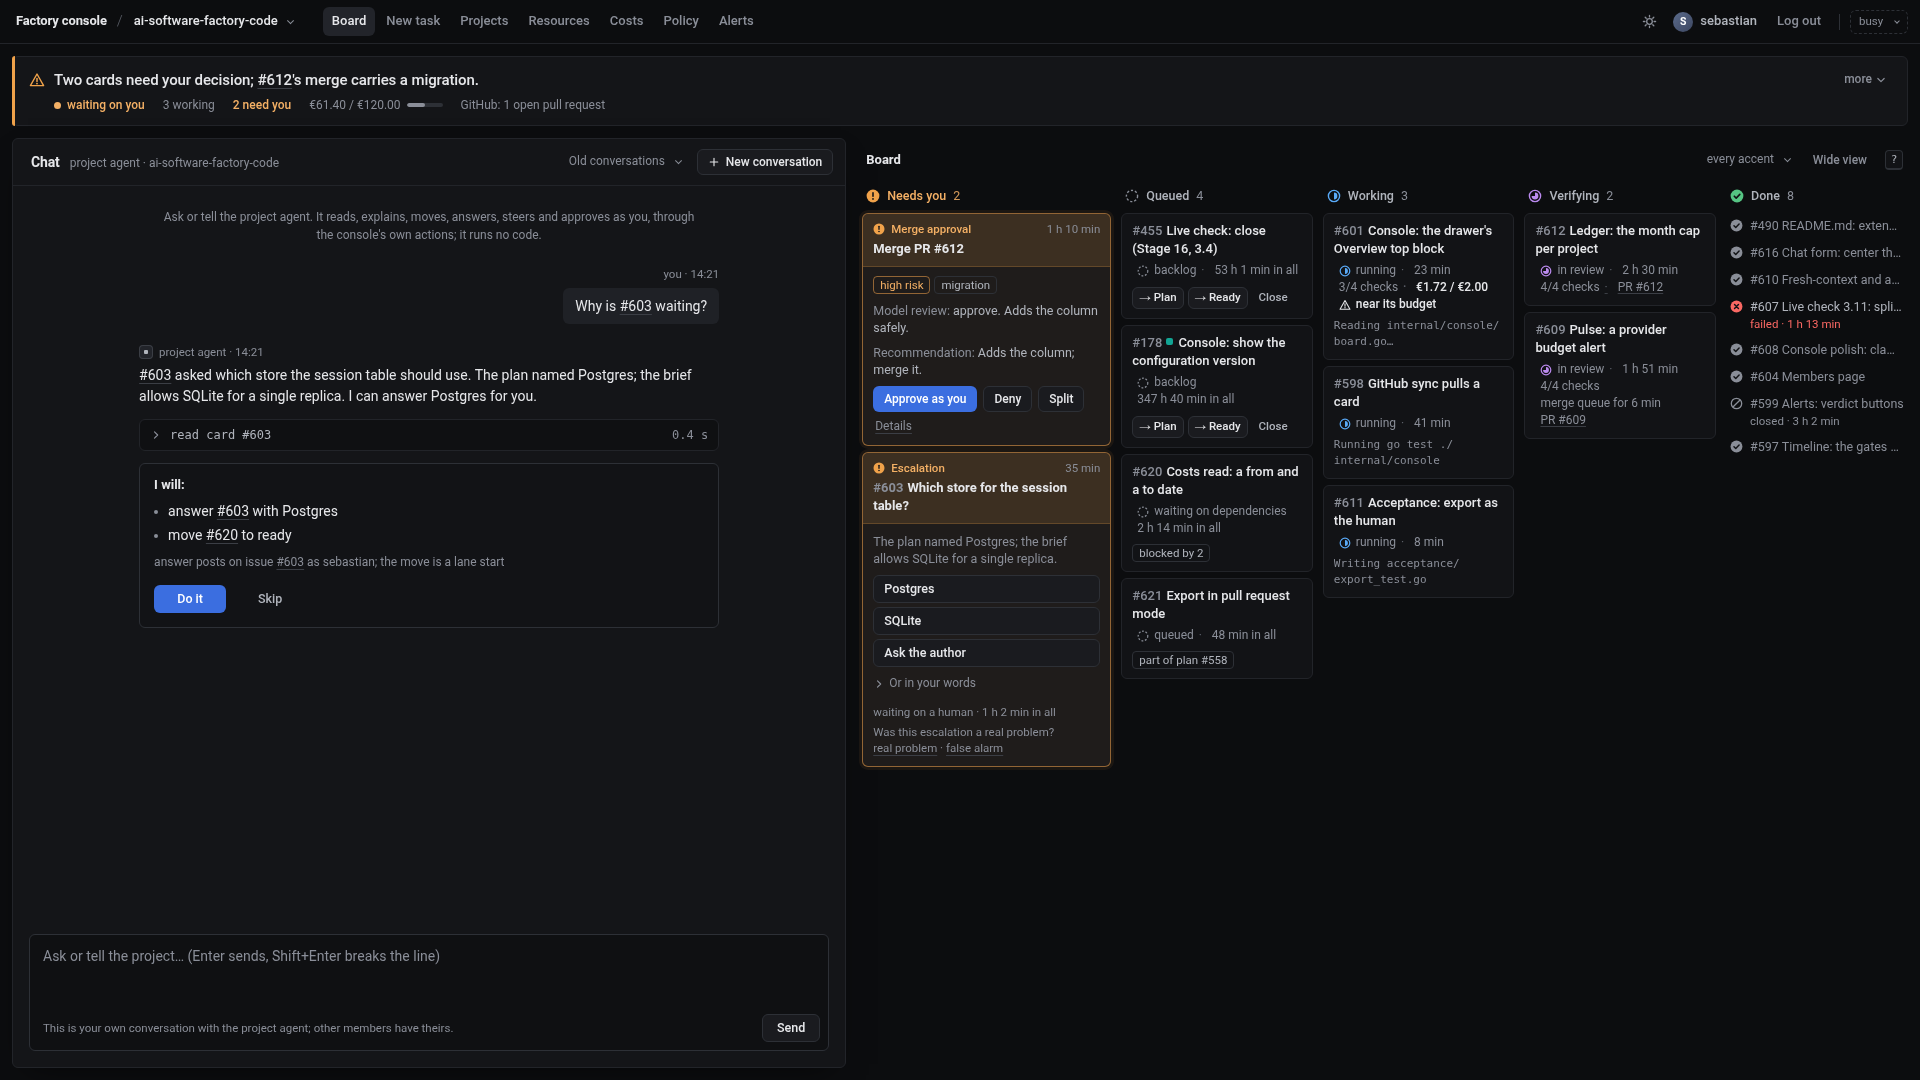
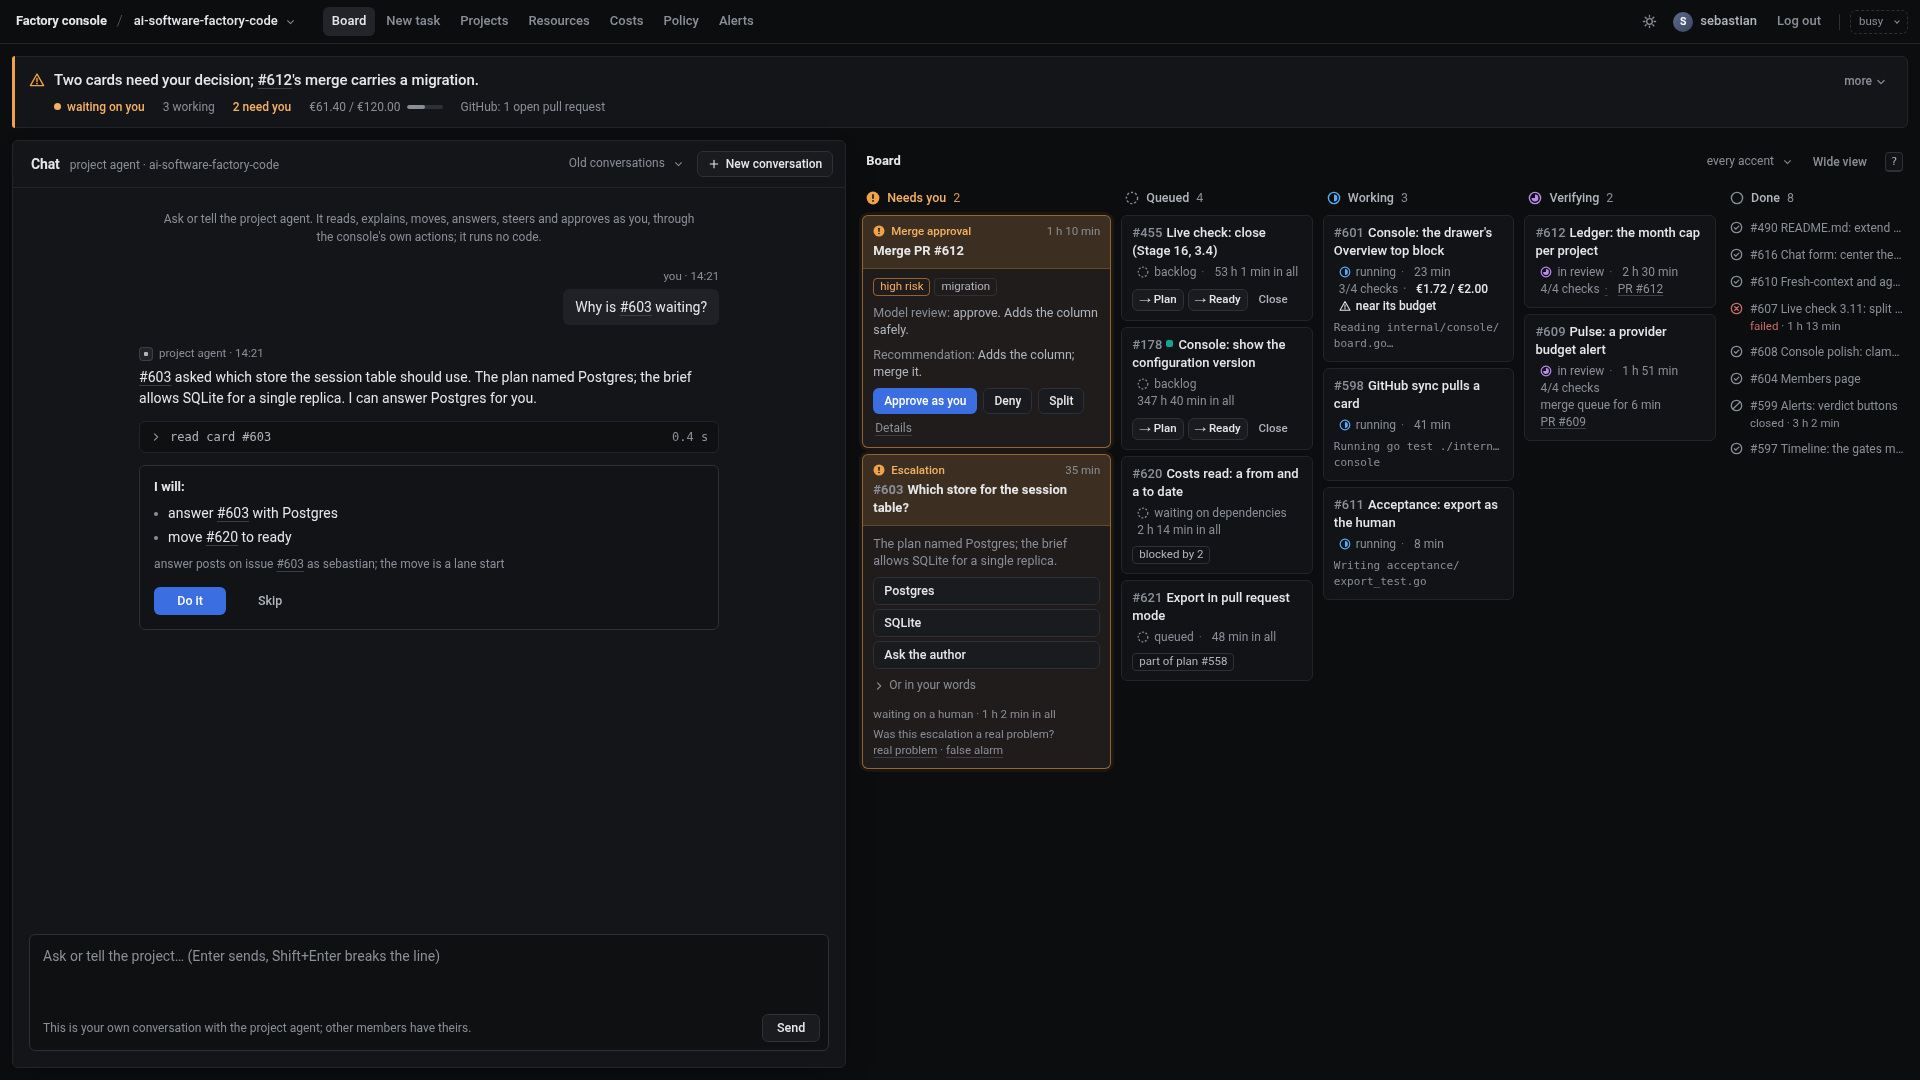
prototype 01 Linear calm: fix loop 2 (Done whispers, light contrast tokens, activity lines keep the file name, the pulse's more link), final

diff --git a/design/prototypes/01-linear-calm/index.html b/design/prototypes/01-linear-calm/index.html
@@ -52,6 +52,7 @@ html[data-theme="dark"] {
   --st-review: oklch(0.72 0.15 305);
   --st-done: oklch(0.74 0.14 155);
   --st-failed: oklch(0.70 0.18 25);
+  --st-failed-muted: oklch(0.64 0.12 25);
   --st-closed: #8a8e98;
   --st-queued: #8a8e98;
   --add: oklch(0.76 0.14 155);
@@ -75,8 +76,8 @@ html[data-theme="light"] {
   --line-2: #d6d9de;
   --line-3: #bfc3ca;
   --text: #17181b;
-  --text-2: #3f434a;
-  --text-muted: #565a63;
+  --text-2: #34373d;
+  --text-muted: #4b4f58;
   --text-faint: #a8acb3;
   --accent: #2a5fd6;
   --accent-bg: #2f64dc;
@@ -93,7 +94,8 @@ html[data-theme="light"] {
   --st-review: oklch(0.52 0.18 305);
   --st-done: oklch(0.52 0.13 155);
   --st-failed: oklch(0.53 0.19 25);
-  --st-closed: #565a63;
+  --st-failed-muted: oklch(0.50 0.13 25);
+  --st-closed: #4b4f58;
   --st-queued: #8b8f98;
   --add: oklch(0.50 0.13 155);
   --del: oklch(0.52 0.19 25);
@@ -231,6 +233,7 @@ body { display: flex; flex-direction: column; height: 100vh; height: 100dvh; ove
   background: var(--need); border-radius: var(--r) 0 0 var(--r);
 }
 .pulse-line { display: flex; align-items: flex-start; gap: 9px; }
+.pulse-line > .pulse-sentence, .pulse-line > .more { align-self: baseline; }
 .pulse-line > .warn { color: var(--need); width: 16px; height: 16px; margin-top: 3px; }
 .pulse-sentence { font-size: 15px; line-height: 22px; font-weight: 500; letter-spacing: -0.008em; color: var(--text); }
 .recompute { display: inline-flex; gap: 3px; margin-left: 8px; vertical-align: 2px; }
@@ -338,7 +341,7 @@ a.fig.fig-need:hover { text-decoration: underline; text-underline-offset: 3px; }
 #chat-input:focus-visible { outline: none; }
 #chat-input::placeholder { color: var(--text-muted); }
 .composer-bar { display: flex; align-items: center; gap: 12px; padding: 4px 8px 8px 13px; }
-.own { flex: 1; min-width: 0; font-size: 11.5px; line-height: 16px; color: var(--text-muted); }
+.own { flex: 1; min-width: 0; font-size: 12px; line-height: 16px; color: var(--text-muted); }
 .composer-box:has(#chat-input:not(:placeholder-shown)) .send { background: var(--accent-bg); border-color: transparent; color: var(--on-accent); }
 .send { height: 28px; padding: 0 14px; font-size: 12.5px; }
 .queue { margin-top: 8px; display: grid; gap: 4px; }
@@ -394,6 +397,8 @@ a.fig.fig-need:hover { text-decoration: underline; text-underline-offset: 3px; }
 a.it.pr { position: relative; z-index: 1; color: var(--text-muted); text-decoration: underline; text-decoration-color: var(--line-3); text-underline-offset: 2px; }
 a.it.pr:hover { color: var(--text); }
 .c-act { margin-top: 5px; font: 11px/16px var(--mono); color: var(--text-muted); display: -webkit-box; -webkit-line-clamp: 2; -webkit-box-orient: vertical; overflow: hidden; overflow-wrap: anywhere; }
+.c-act.path { display: flex; flex-wrap: wrap; }
+.c-act.path span { min-width: 0; max-width: 100%; white-space: pre; overflow: hidden; text-overflow: ellipsis; }
 .chips { position: relative; display: flex; flex-wrap: wrap; gap: 4px; margin-top: 7px; }
 .chip { display: inline-flex; align-items: center; height: 18px; padding: 0 6px; border: 1px solid var(--line-2); border-radius: 4px; font-size: 11.5px; color: var(--text-2); white-space: nowrap; }
 .chip-risk { border-color: var(--need-line); color: var(--need-text); }
@@ -407,18 +412,18 @@ a.it.pr:hover { color: var(--text); }
 .done-list { display: grid; grid-template-columns: minmax(0, 1fr); gap: 1px; margin: 0 -2px; }
 .d-open {
   display: flex; align-items: flex-start; gap: 7px; width: 100%; padding: 4px 6px; border: 0; border-radius: var(--r);
-  background: none; text-align: left; color: var(--text-muted); font-size: 12.5px; line-height: 18px; transition: background-color .12s, color .12s;
+  background: none; text-align: left; color: var(--text-muted); font-size: 12px; line-height: 18px; transition: background-color .12s, color .12s;
 }
 .d-open:hover { background: var(--bg-hover); color: var(--text-2); }
 .d-open .si { margin-top: 2px; width: 13px; height: 13px; }
-.done-row.st-done .si { color: var(--text-muted); }
-.done-row.st-closed .si { color: var(--text-muted); }
+.done-row .si { color: var(--text-muted); }
+.done-row.st-failed .si { color: var(--st-failed-muted); }
 .d-text { flex: 1; min-width: 0; }
 .d-line { display: block; white-space: nowrap; overflow: hidden; text-overflow: ellipsis; }
 .d-line .ref { color: inherit; font-weight: 400; margin-right: 3px; }
 .d-state { display: block; font-size: 11.5px; line-height: 16px; }
-.done-row.st-failed .d-line { color: var(--text-2); }
-.done-row.st-failed .d-state { color: var(--st-failed); }
+.d-state b { font-weight: 400; }
+.done-row.st-failed .d-state b { color: var(--st-failed-muted); }
 .d-time { display: none; flex: none; font-size: 11.5px; color: var(--text-muted); }
 @container (min-width: 200px) { .d-time { display: inline; } }
 @container (max-width: 169px) { .d-line { white-space: normal; display: -webkit-box; -webkit-line-clamp: 2; -webkit-box-orient: vertical; } }
@@ -723,6 +728,12 @@ footer { flex: none; }
     closed: ring + '<path d="m3.2 10.8 7.6-7.6" stroke="currentColor" stroke-width="1.4"/>',
     idle: ring,
   };
+  // done rows whisper: outline glyphs only
+  const ROW = {
+    done: ring + '<path d="m4.6 7.1 1.7 1.7 3.2-3.3" fill="none" stroke="currentColor" stroke-width="1.4" stroke-linecap="round" stroke-linejoin="round"/>',
+    failed: ring + '<path d="m5.1 5.1 3.8 3.8m0-3.8-3.8 3.8" stroke="currentColor" stroke-width="1.4" stroke-linecap="round"/>',
+    closed: SI.closed,
+  };
   const si = (k) => `<svg class="si si-${k}" viewBox="0 0 14 14" aria-hidden="true">${SI[k] || SI.queued}</svg>`;
 
   // the issue refs in prose open their card when the card is on the board
@@ -917,16 +928,23 @@ footer { flex: none; }
       ${I.grip}
       <button type="button" class="c-open" data-open title="${esc(c.title)}"><span class="c-title"><span class="ref">#${c.issue}</span>${c.accent ? `<span class="accent-dot" style="background:${ACCENTS[c.accent] || 'var(--text-muted)'}" title="accent ${esc(c.accent)}"></span>` : ''}${esc(c.title)}</span></button>
       ${stateRow(c)}
-      ${act ? `<p class="c-act" title="${esc(c.activity)}">${esc(c.activity).replace(/\//g, '/<wbr>')}</p>` : ''}
+      ${act ? actLine(c.activity) : ''}
       ${chipsHTML(c)}
       ${conf ? confirmLine(conf) : cardActions(c)}
     </article>`;
   }
+  // a path splits before its file name: head and file share a line when they fit, else the file takes the second line
+  function actLine(a) {
+    const m = /^(.*\/)([^/]+)$/.exec(a);
+    return m
+      ? `<p class="c-act path" title="${esc(a)}"><span>${esc(m[1])}</span><span>${esc(m[2])}</span></p>`
+      : `<p class="c-act" title="${esc(a)}">${esc(a)}</p>`;
+  }
   function doneHTML(c) {
     const k = stKey(c.status), loud = k !== 'done';
     return `<li class="done-row st-${k}" data-card="${c.issue}">
-      <button type="button" class="d-open" data-open title="${esc(`#${c.issue} ${c.title} · ${c.status} · ${c.elapsed}`)}">${si(k)}
-        <span class="d-text"><span class="d-line"><span class="ref">#${c.issue}</span>${esc(c.title)}</span>${loud ? `<span class="d-state">${esc(c.status)} · ${esc(c.elapsed.replace(/ in all$/, ''))}</span>` : ''}</span>
+      <button type="button" class="d-open" data-open title="${esc(`#${c.issue} ${c.title} · ${c.status} · ${c.elapsed}`)}"><svg class="si" viewBox="0 0 14 14" aria-hidden="true">${ROW[k]}</svg>
+        <span class="d-text"><span class="d-line"><span class="ref">#${c.issue}</span>${esc(c.title)}</span>${loud ? `<span class="d-state"><b>${esc(c.status)}</b> · ${esc(c.elapsed.replace(/ in all$/, ''))}</span>` : ''}</span>
         ${loud ? '' : `<span class="d-time">${esc(c.elapsed.replace(/ in all$/, ''))}</span>`}
       </button></li>`;
   }
@@ -1052,7 +1070,7 @@ footer { flex: none; }
         ${col('queued', 'Queued', 'queued', q.length, q.map((c) => cardHTML(c, 'queued')).join(''))}
         ${col('working', 'Working', 'running', w.length, w.map((c) => cardHTML(c, 'working')).join(''))}
         ${col('verifying', 'Verifying', 'review', v.length, v.map((c) => cardHTML(c, 'verifying')).join(''))}
-        ${col('done', 'Done', 'done', doneCount, d.length ? `<ul class="done-list">${d.slice(0, 12).map(doneHTML).join('')}</ul>${doneCount > Math.min(d.length, 12) ? `<a href="#" class="done-more">and ${doneCount - Math.min(d.length, 12)} earlier</a>` : ''}` : '',
+        ${col('done', 'Done', 'idle', doneCount, d.length ? `<ul class="done-list">${d.slice(0, 12).map(doneHTML).join('')}</ul>${doneCount > Math.min(d.length, 12) ? `<a href="#" class="done-more">and ${doneCount - Math.min(d.length, 12)} earlier</a>` : ''}` : '',
           `<button type="button" class="icon-btn sm done-toggle" data-act="done-toggle" aria-expanded="false" aria-controls="col-done-body" aria-label="Done">${I.down}</button>`)}
       </div>`;
     markOpen();

diff --git a/design/themes/01-linear-calm/DESIGN.md b/design/themes/01-linear-calm/DESIGN.md
@@ -16,8 +16,8 @@ The control direction: a Linear or Height product screen, monochrome cool greys,
 | --bg-hover / --bg-active | #1a1b1f / #202227 | #f0f1f3 / #e8eaed | hover, the active nav item, pressed |
 | --line, --line-2, --line-3 | #222429, #2d3036, #3a3d44 | #e4e6e9, #d6d9de, #c3c7ce | hairlines, control borders, hover borders |
 | --text | #e6e7ea | #17181b | titles, the pulse sentence, chat text |
-| --text-2 | #b0b4bc | #3f434a | secondary text, column titles |
-| --text-muted | #8a8e98 | #565a63 | meta, done rows and their icons, the status figures (at least 5.5:1 on its ground) |
+| --text-2 | #b0b4bc | #34373d | secondary text, column titles |
+| --text-muted | #8a8e98 | #4b4f58 | meta, done rows and their icons, the status figures, the composer's helper line (light: 8.2:1 on the card and the panel, 7.7:1 on the page, 7.8:1 on the Needs you fill) |
 | --accent | #7ea6f8 | #2a5fd6 | links on hover, focus ring |
 | --accent-bg | #3b6ee0 | #2f64dc | the primary button (Do it, Approve as you, Send with text), white text 4.6:1 |
 | --need | #f0a24a | #df8d2c | the Needs you treatment: outline, the pulse rule, the waiting dot |
@@ -26,8 +26,9 @@ The control direction: a Linear or Height product screen, monochrome cool greys,
 | --st-running | oklch(0.72 0.14 250) | oklch(0.52 0.15 250) | the running icon |
 | --st-waiting | = --need | = --need | waiting on a human |
 | --st-review | oklch(0.72 0.15 305) | oklch(0.52 0.18 305) | in review |
-| --st-done | oklch(0.74 0.14 155) | oklch(0.52 0.13 155) | the Done column icon only; done rows stay grey |
-| --st-failed | oklch(0.70 0.18 25) | oklch(0.53 0.19 25) | failed icon and word, spend over the cap |
+| --st-done | oklch(0.74 0.14 155) | oklch(0.52 0.13 155) | the applied check and a passed gate; the Done column and its rows stay grey |
+| --st-failed | oklch(0.70 0.18 25) | oklch(0.53 0.19 25) | a failed card face, spend over the cap |
+| --st-failed-muted | oklch(0.64 0.12 25) | oklch(0.50 0.13 25) | the failed done row's mark and word only |
 | --st-closed, --st-queued | #8a8e98 | #626670, #8b8f98 | closed, backlog, queued |
 
 The state hues sit on Linear-style status icons (dashed circle queued, half pie running, three-quarter pie in review, filled check done, filled cross failed, slashed circle closed), never on fills, so the shape and the word carry the state and the hue only confirms it. The state word stays grey, except waiting on a human (warm) and failed (red).
@@ -37,7 +38,7 @@ The state hues sit on Linear-style status icons (dashed circle queued, half pie 
 - One grotesk: `Inter, -apple-system, BlinkMacSystemFont, "Segoe UI", Roboto, "Helvetica Neue", Arial, system-ui`. Mono: `ui-monospace, "SF Mono", "JetBrains Mono", Menlo, Consolas, "Roboto Mono"`.
 - Scale: 11.5 (kickers, chips), 12 (meta, state rows, status figures, buttons), 13 (body, card titles, nav), 14 (chat messages, the composer), 15 (the pulse sentence, weight 500), 17 (the drawer title, weight 600).
 - Weights 400, 500, 600 only. Tabular numerals everywhere except chat prose.
-- Activity line: mono 11 px, muted, up to two lines (breaking after a slash) before the ellipsis.
+- Activity line: mono 11 px, muted. A path splits before its file name: the head and the file share one line when they fit, else the file name takes the second line and the head ellipsises, so the file always shows. Text without a path wraps to two lines.
 
 ## Layout at 1440 and 1920
 
@@ -51,7 +52,7 @@ The state hues sit on Linear-style status icons (dashed circle queued, half pie 
 
 ## The pulse
 
-A raised band with a hairline. The sentence first at 15 px/500 in --text, "more" at the right end opening the bullets. Under it the status figures in one 12 px tabular row: state dot and word, n working (`workingCount`), n waiting on the provider (when any), n need you (warm, links to the column), spend / cap with a 36 px meter, GitHub. Prominent: a 3 px --need rule on the left edge and the warm warning sign. Subdued: no rule, no sign. Spend over the cap turns the figure and its meter red. Three dots after the sentence while it recomputes.
+A raised band with a hairline. The sentence first at 15 px/500 in --text, "more" at the right end on the sentence's first baseline, opening the bullets. Under it the status figures in one 12 px tabular row: state dot and word, n working (`workingCount`), n waiting on the provider (when any), n need you (warm, links to the column), spend / cap with a 36 px meter, GitHub. Prominent: a 3 px --need rule on the left edge and the warm warning sign. Subdued: no rule, no sign. Spend over the cap turns the figure and its meter red. Three dots after the sentence while it recomputes.
 
 ## The chat
 
@@ -62,7 +63,7 @@ The main region and the brightest surface: raised panel, hairline, a soft drop s
 - Column header: status icon, sentence-case title 12.5/500, count muted. Needs you title in --need-text.
 - Card: --bg-card, hairline, padding 8/10. Title 13/500 clamped to two lines with the ref in muted tabular. State row 12 px: icon and word, elapsed, n/n checks, gate and age, spend from 80 percent with "⚠ near its budget" in --text, fine states, PR link. Activity line in mono only on working and waiting cards. Chips 11.5 px hairline. Actions: 22 px buttons, Close quiet.
 - Stale card: a dashed --line-3 border.
-- Done, failed, closed: no box, a row with the state icon, ref and title; one line where the column is 170 px or wider, two below that. Failed and closed add an 11.5 px line with the state word and elapsed. The elapsed of a done row appears when the column is 200 px or wider. At most 12 rows, then one quiet link "and n earlier"; the column never needs its own long scroller.
+- Done, failed, closed: no box, 12 px muted text, outline glyphs in --text-muted (check, slashed ring; the failed row a cross and its word in --st-failed-muted), never brighter than a Working card; a row with the glyph, ref and title; one line where the column is 170 px or wider, two below that. Failed and closed add an 11.5 px line with the state word and elapsed. The elapsed of a done row appears when the column is 200 px or wider. At most 12 rows, then one quiet link "and n earlier"; the column never needs its own long scroller.
 - Hover: border to --line-3, background to --bg-hover. Open card: --accent border.
 
 ## Needs you
